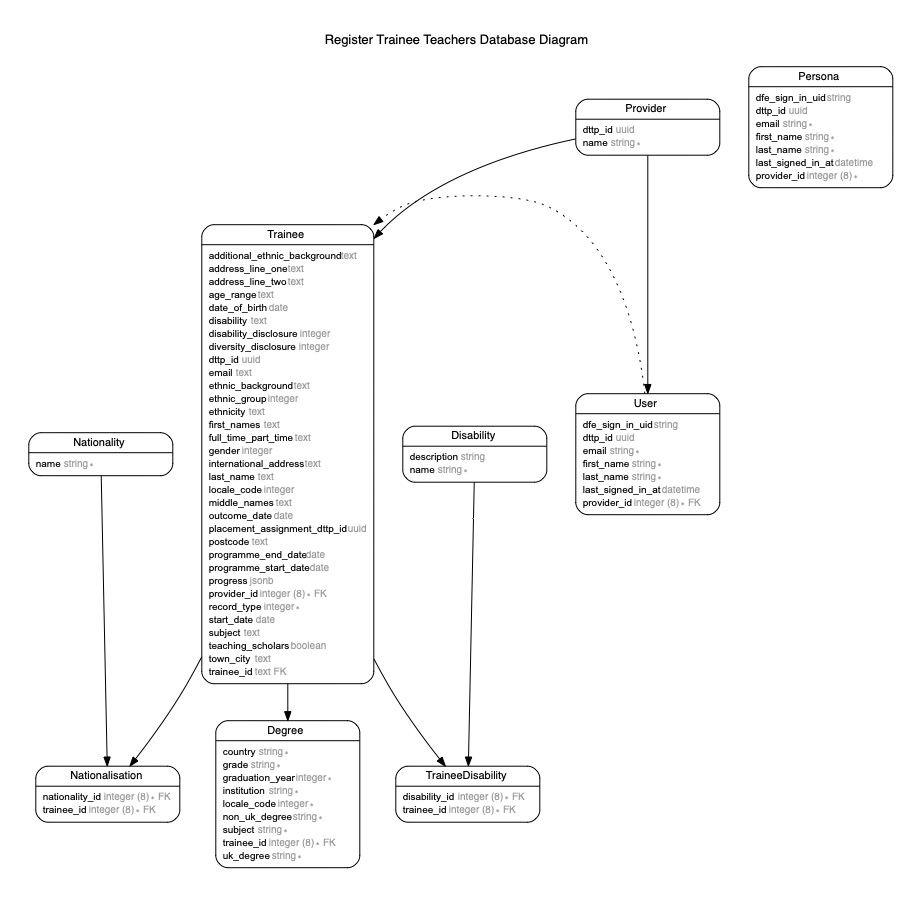
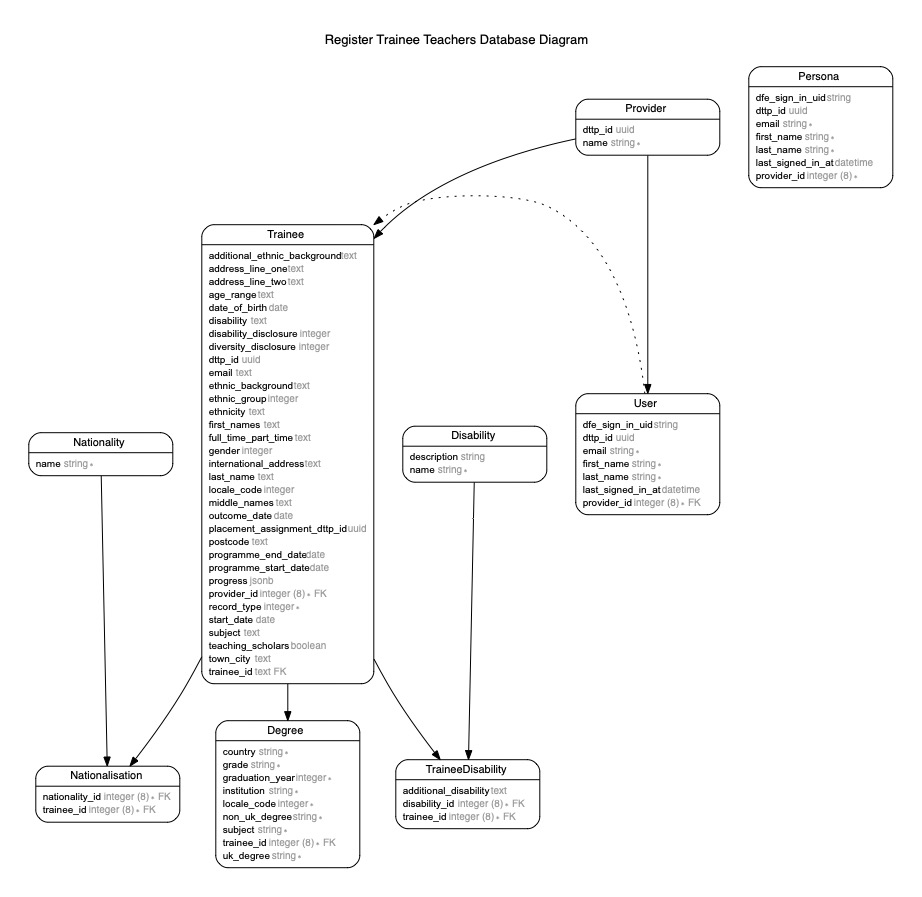
[592] Allow providers to be able to add additional disability if other is selected

Changed region(s): [[0.4252, 0.8428, 0.577, 0.9365]]

diff --git a/app/webpacker/styles/application.scss b/app/webpacker/styles/application.scss
@@ -14,13 +14,6 @@ a[href="#"] {
   font-weight: bolder !important;
 }
 
-.govuk-checkboxes.disability {
-  label {
-    font-weight: $govuk-font-weight-bold;
-  }
-}
-
-
 // Dashed list (used in Contents links list)
 .app-list--dash li {
   position: relative;

diff --git a/app/models/diversities/disability_detail.rb b/app/models/diversities/disability_detail.rb
@@ -3,22 +3,75 @@
 module Diversities
   class DisabilityDetail
     include ActiveModel::Model
-    attr_accessor :trainee, :disability_ids
+    include ActiveModel::AttributeAssignment
+    include ActiveModel::Validations::Callbacks
+
+    attr_accessor :trainee, :disability_ids, :additional_disability
 
     delegate :id, :persisted?, to: :trainee
     validate :disabilities_cannot_be_empty
 
-    def initialize(trainee:)
+    def initialize(trainee:, attributes: {})
       @trainee = trainee
-      super(disability_ids: trainee.disability_ids)
+      @attributes = attributes
+      super(fields)
+    end
+
+    def fields
+      {
+        disability_ids: disabilities,
+        additional_disability: additional_disability_value,
+      }
+    end
+
+    def save
+      if valid?
+        Trainee.transaction do
+          update_disabilities
+          update_additional_disability_info if other_trainee_disability.present?
+        end
+
+        true
+      else
+        false
+      end
     end
 
   private
 
+    attr_reader :attributes
+
     def disabilities_cannot_be_empty
-      return unless trainee.disabilities.empty?
+      return unless disabilities.empty?
 
       errors.add(:disability_ids, :empty_disabilities)
+    end
+
+    def disabilities
+      return trainee.disability_ids if attributes[:disability_ids].blank?
+
+      attributes[:disability_ids].reject(&:blank?).map(&:to_i)
+    end
+
+    def other_trainee_disability
+      @other_trainee_disability ||= trainee.trainee_disabilities.includes(:disability).find do |trainee_disability|
+        trainee_disability.disability.name == Diversities::OTHER
+      end
+    end
+
+    def additional_disability_value
+      return other_trainee_disability&.additional_disability if attributes[:additional_disability].nil?
+
+      attributes[:additional_disability]
+    end
+
+    def update_disabilities
+      # This will actually persist the records due to how the association *_ids=() method works.
+      trainee.assign_attributes(disability_ids: disabilities)
+    end
+
+    def update_additional_disability_info
+      other_trainee_disability.update(additional_disability: additional_disability_value)
     end
   end
 end

diff --git a/spec/components/trainees/confirmation/diversity/view_spec.rb b/spec/components/trainees/confirmation/diversity/view_spec.rb
@@ -5,9 +5,7 @@ require "rails_helper"
 RSpec.describe Trainees::Confirmation::Diversity::View do
   alias_method :component, :page
 
-  let(:trainee) do
-    mock_trainee
-  end
+  let(:trainee) { create(:trainee) }
 
   describe "Diversity information" do
     context "when trainee has not shared any ethnic or disability information" do
@@ -87,16 +85,37 @@ RSpec.describe Trainees::Confirmation::Diversity::View do
   end
 
   describe "#selected_disability_options" do
-    it "returns a empty string if no disabilities" do
-      trainee.disabilities = []
-      component = Trainees::Confirmation::Diversity::View.new(trainee: trainee)
-      expect(component.selected_disability_options).to be_empty
+    let(:component) { Trainees::Confirmation::Diversity::View.new(trainee: trainee) }
+
+    context "when there are no disabilities" do
+      it "returns a empty string if no disabilities" do
+        expect(component.selected_disability_options).to be_empty
+      end
     end
-  end
 
-private
+    context "when there are disabilities" do
+      let(:disabilities_stub) { [double(name: "some disability")] }
 
-  def mock_trainee
-    @mock_trainee ||= create(:trainee)
+      before do
+        allow(trainee).to receive(:disabilities).and_return(disabilities_stub)
+      end
+
+      it "renders the disability names" do
+        trainee.disabilities.each do |disability|
+          expect(component.selected_disability_options).to include(disability.name)
+        end
+      end
+    end
+
+    context "when additional disability has been provided" do
+      let(:disability) { build(:disability, name: Diversities::OTHER) }
+      let(:trainee_disability) { build(:trainee_disability, additional_disability: "some additional disability", disability: disability) }
+      let(:trainee) { create(:trainee, trainee_disabilities: [trainee_disability]) }
+
+      it "renders the additional disability" do
+        expected_text = "#{disability.name.downcase} (#{trainee_disability.additional_disability})"
+        expect(component.selected_disability_options).to include(expected_text)
+      end
+    end
   end
 end

diff --git a/app/components/trainees/confirmation/diversity/view.rb b/app/components/trainees/confirmation/diversity/view.rb
@@ -62,15 +62,38 @@ module Trainees
         def selected_disability_options
           return "" if trainee.disabilities.blank?
 
-          disabilities = trainee.disabilities.map { |disability| disability.name.titleize }
-
           selected = tag.p("Disabilities shared:", class: "govuk-body")
 
           selected + sanitize(tag.ul(class: "govuk-list govuk-list--bullet") do
-            disabilities.each do |disability|
-              concat tag.li(disability)
-            end
+            render_disabilities
           end)
+        end
+
+      private
+
+        def render_disabilities
+          trainee.disabilities.each do |disability|
+            if disability.name == Diversities::OTHER
+              render_additional_disability(disability)
+            else
+              concat(tag.li(disability_name_for(disability)))
+            end
+          end
+        end
+
+        def render_additional_disability(disability)
+          concat(tag.li("#{disability_name_for(disability)} #{additional_disability_for(disability)}"))
+        end
+
+        def additional_disability_for(disability)
+          additional_disability = trainee.trainee_disabilities.where(disability_id: disability.id).first.additional_disability
+          return if additional_disability.blank?
+
+          "(#{additional_disability})"
+        end
+
+        def disability_name_for(disability)
+          disability.name.downcase
         end
       end
     end

diff --git a/app/controllers/trainees/diversity/disability_details_controller.rb b/app/controllers/trainees/diversity/disability_details_controller.rb
@@ -12,15 +12,13 @@ module Trainees
       def update
         authorize trainee
         disabilities
-        updater = Diversities::DisabilityDetails::Update.call(
-          trainee: trainee,
-          attributes: disability_detail_params,
-        )
 
-        if updater.successful?
+        disability_detail = Diversities::DisabilityDetail.new(trainee: trainee, attributes: disability_detail_params)
+
+        if disability_detail.save
           redirect_to(trainee_diversity_disability_detail_confirm_path(trainee))
         else
-          @disability_detail = updater.disability_detail
+          @disability_detail = disability_detail
           render :edit
         end
       end
@@ -38,7 +36,7 @@ module Trainees
       def disability_detail_params
         return { disability_ids: nil } if params[:diversities_disability_detail].blank?
 
-        params.require(:diversities_disability_detail).permit(disability_ids: [])
+        params.require(:diversities_disability_detail).permit(:additional_disability, disability_ids: [])
       end
     end
   end

diff --git a/db/schema.rb b/db/schema.rb
@@ -10,7 +10,7 @@
 #
 # It's strongly recommended that you check this file into your version control system.
 
-ActiveRecord::Schema.define(version: 2020_12_08_170410) do
+ActiveRecord::Schema.define(version: 2020_12_10_130513) do
 
   # These are extensions that must be enabled in order to support this database
   enable_extension "plpgsql"
@@ -67,6 +67,7 @@ ActiveRecord::Schema.define(version: 2020_12_08_170410) do
     t.bigint "disability_id", null: false
     t.datetime "created_at", precision: 6, null: false
     t.datetime "updated_at", precision: 6, null: false
+    t.text "additional_disability"
     t.index ["disability_id"], name: "index_trainee_disabilities_on_disability_id"
     t.index ["trainee_id"], name: "index_trainee_disabilities_on_trainee_id"
   end

diff --git a/db/migrate/20201210130513_add_disability_information_to_trainee_disabilities.rb b/db/migrate/20201210130513_add_disability_information_to_trainee_disabilities.rb
@@ -1,0 +1,7 @@
+# frozen_string_literal: true
+
+class AddDisabilityInformationToTraineeDisabilities < ActiveRecord::Migration[6.0]
+  def change
+    add_column :trainee_disabilities, :additional_disability, :text, null: true
+  end
+end
